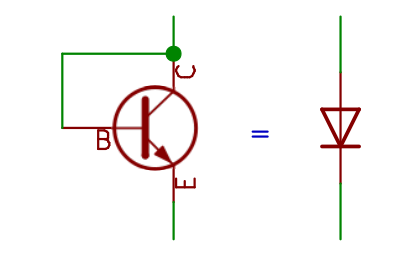
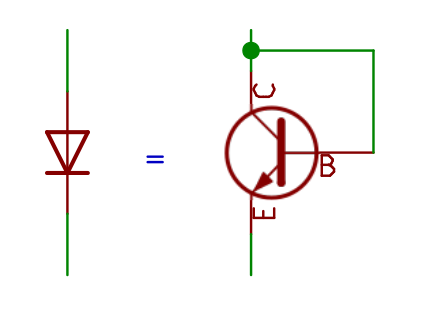
Mostly starting to work on the prelims.

Changed region(s): [[0.0929, 0.0625, 0.4952, 0.9375], [0.5262, 0.0625, 0.8976, 0.9375]]

diff --git a/_ramblings/2021-01-24-current-mirror.md b/_ramblings/2021-01-24-current-mirror.md
@@ -1,5 +1,6 @@
 ---
 title: The Current Mirror
+draft: true
 layout: rambling
 ---
 
@@ -7,9 +8,10 @@ When designing many electrical circuits, it is often useful to have a fixed
 source (or sink) of current. This requirement lead me to the discovery of the
 current mirror, which can be used to implement a fixed current, amongst other
 things. As the name suggests, a current mirror _mirrors_ the current on one
-path to another. One can then use a specific application of the current mirror
-to fix the current on the first path, thus holding the current on the other
-path steady over changing conditions.
+path to another. By fixing the current on the left path we hold the current on
+the right path steady over changing conditions.
+
+<!-- TODO: Why must we fix the left path? -->
 
 <figure class="image">
   <img src="/img/ramblings/current-mirror/mirror.png" />
@@ -26,6 +28,7 @@ Resistance Temperature Detector (RTD), which depends on a fixed current in
 order to measure the voltage with an Analog to Digital Converter (ADC). But,
 more on that project another time...
 
+<!-- TODO: This paragraph needs help. -->
 <!-- TODO: Link to a post on the temperature controller project. -->
 
 ### Preliminaries
@@ -33,7 +36,8 @@ more on that project another time...
 Before we can understand the workings of the current mirror, we must first
 understand some basics of diodes and transistors. The arrows/triangles in the
 symbols below should help remind you of the relationship between these
-components.
+components. It may help to first realize that the left transistor from the
+current mirror schematic above is actually acting like a diode.
 
 <figure class="image">
   <img src="/img/ramblings/current-mirror/diode_transistor.png" />
@@ -42,19 +46,28 @@ components.
 
 #### Diodes
 
-To some of you, the most familiar kind of diode will be the Light-emitting
-Diode, however we're not interested in generating light for this application of
-a diode. Instead, we are interesting in a property of all diodes.
+Diodes are like one-way valves. Current flow in the _forward_ direction is
+relatively uninhibited, while passing current in the _reverse_ direction is
+impeded until it reaches what's known as it's _breakdown voltage_.
 
-Anode = P
-Cathode = N
+Diodes, much like the BJTs we'll look at next, are made of two types of
+material regions. Current flows from a _p-type_ material, through a depleted
+region, into an _n-type_ material. This is called a "PN" junction. Another name
+for the p-type and n-type terminals are _anode_ and _cathode_, respectively.
+
+For some readers, the most familiar kind of diode will be the Light-emitting
+Diode, however we're not interested in generating light for this application of
+a diode.
 
 <figure class="image">
   <img src="/img/ramblings/current-mirror/led.png" />
   <figcaption>The schematic symbol for an LED.</figcaption>
 </figure>
 
-TODO: Explain NP (or PN) junction of a diode leading into transistors.
+What we are interested in is the fact that a diode, when fully forward-biased
+has a static voltage drop (0.7 V is a common value). This is because once the
+voltage is high enough, the diode's depletion region has been effectively
+shrunk to nonexistence.
 
 #### Transistors
 
@@ -65,10 +78,10 @@ make use of a metal-oxide-semiconductor field-effect transistor (MOS-FET) or
 even an Operational Amplifier (Op-Amp) to implement a current mirror.
 
 There are two kinds of BJTs: n-type NPN transistors and p-type PNP transistors.
-The "N" and "P" components of the name refer to the polarity of the material
-used in the construction of the transistor. A NPN transistor consists of a
-positive region sandwiched between two negative regions, and visa-versa for the
-PNP transistor.
+Like the diode, the "N" and "P" components of the name refer to the polarity of
+the material used in the construction of the transistor. A NPN transistor
+consists of a positive region sandwiched between two negative regions, and
+visa-versa for the PNP transistor.
 
 <figure class="image">
   <img src="/img/ramblings/current-mirror/pnp_npn.png" />
@@ -82,14 +95,18 @@ of their shared base, cause the current flowing through the emitters to be the
 same regardless of the load resistance. This is set by the resistance (`Rs`
 below) which is constrained by the saturation requirement for the transistors.
 For this circuit to work well the transistors (`Q1` & `Q2`) must be as similar
-as possible.
+as possible. This is why we do not simply use a diode instead of a
+diode-connected transistor, since the base characteristics must match.
 
 TODO: Saturation or active mode?
 
 #### Experimental Configuration 1
 
 First we tested a very basic current mirror configuration with a couple random
-BJT transistors which were lying around.
+BJT transistors which were lying around. These transistors are not designed for
+this purpose and surely have some variance in their $$\beta$$ values. However,
+we should still expect the current across `Rn` to stay relatively near that of
+`Rs`.
 
 ![](/img/ramblings/current-mirror/source.png)
 
@@ -101,13 +118,13 @@ The measurement of each experiment is the voltage across the resistors. We only
 recorded the voltage across `Rs` once, since it is constant.
 
 <table>
-  {% for row in site.data.ramblings.current-mirror.pnp %}
+  {% for row in site.data.ramblings.current-mirror.source %}
     {% if forloop.first %}
     <tr>
-      {% for pair in row %}
-        <th>{{ pair[0] }}</th>
-      {% endfor %}
-      <th>Ω/V = Current (mA)</th>
+      <th>Label</th>
+      <th><code>Rn</code> Value (Ω)</th>
+      <th>Measurement (V)</th>
+      <th>Current (mA)</th>
     </tr>
     {% endif %}
 
@@ -120,6 +137,12 @@ recorded the voltage across `Rs` once, since it is constant.
   {% endfor %}
 </table>
 
+Indeed, the current through `Rn` increased by a factor of $$2\times$$ while the
+resistance decreased by a factor of $$10\times$$. Without the current mirror,
+it would follow Ohm's Law ($$I = V \div R$$) and the current would increase
+by $$10\times$$ as well. So, while our homemade current mirror is not perfect,
+it is semi-functional and might earn a place in a funhouse's room of mirrors.
+
 #### Experimental Configuration 2
 
 Unlike the first experiment where we simply rely on the properties of two
@@ -130,12 +153,12 @@ transistors.
 ![](/img/ramblings/current-mirror/sink.png)
 
 <table>
-  {% for row in site.data.ramblings.current-mirror.npn %}
+  {% for row in site.data.ramblings.current-mirror.sink %}
     {% if forloop.first %}
     <tr>
-      {% for pair in row %}
-        <th>{{ pair[0] }}</th>
-      {% endfor %}
+      <th>Label</th>
+      <th><code>Rn</code> Value (Ω)</th>
+      <th>Measurement (V)</th>
       <th>Current (mA)</th>
     </tr>
     {% endif %}
@@ -144,7 +167,11 @@ transistors.
       {% for pair in row %}
         <td>{{ pair[1] }}</td>
       {% endfor %}
-      <td>{{row["Voltage (V)"] | divided_by: row["Resistance (Ω)"] | times: 1000 | round: 2}}</td>
+      {% if forloop.last == false %}
+      <td>{{row["Voltage (V)"] | divided_by: row["Resistance (Ω)"] | times: 1000 | round: 3}}</td>
+      {% else %}
+      <td>N/A</td>
+      {% endif %}
     </tr>
   {% endfor %}
 </table>
